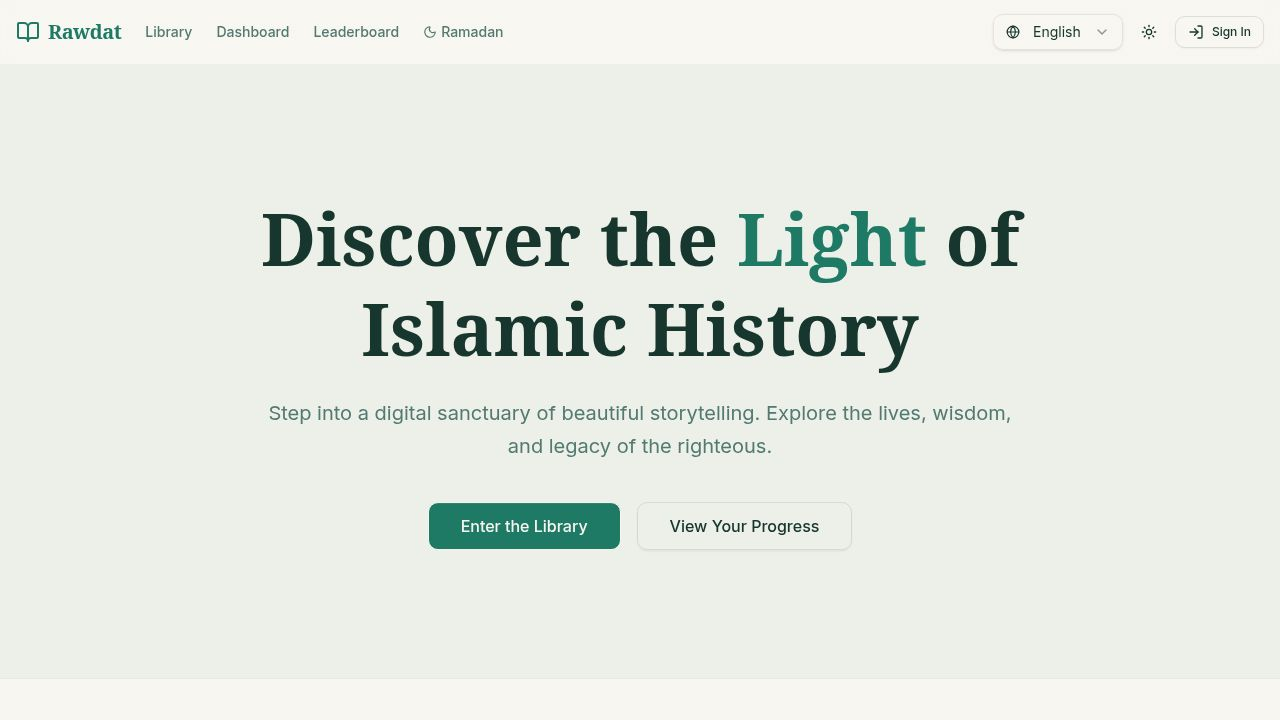
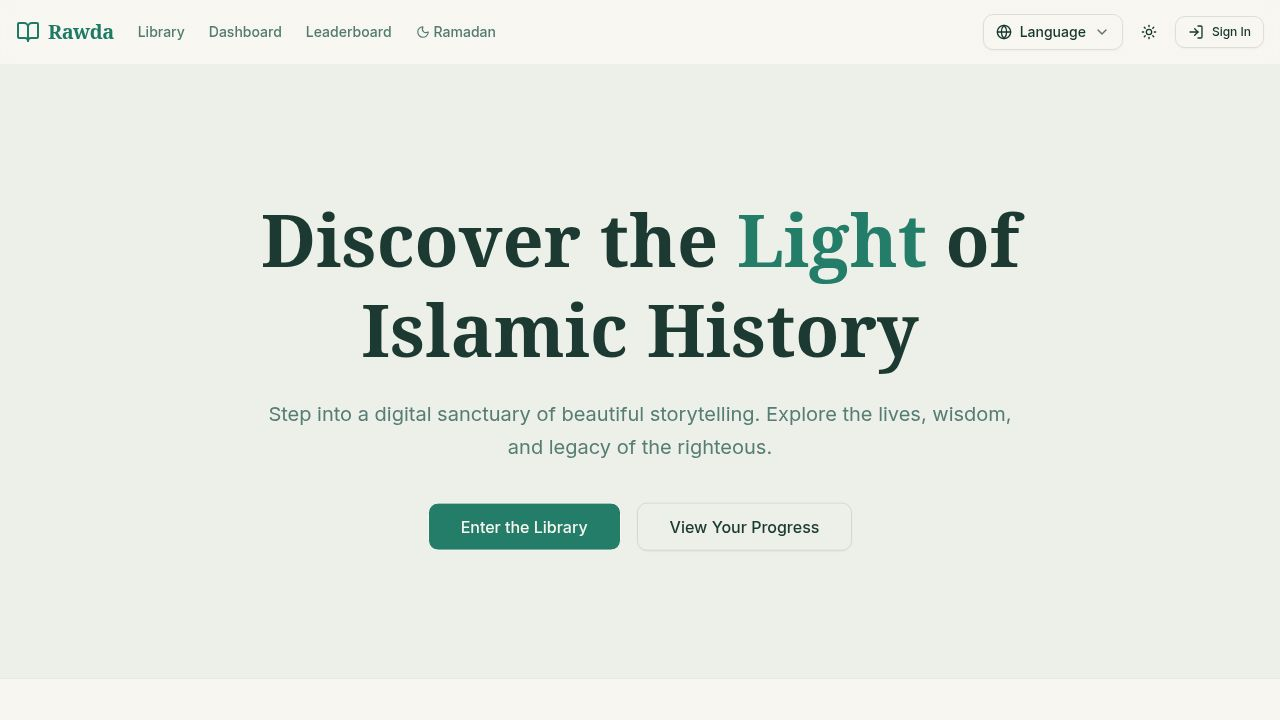
Remove language switcher from homepage
Remove LanguageSwitcher component from the home page, reducing UI clutter and consolidating language selection to header/mobile controls.

Replit-Commit-Author: Agent
Replit-Commit-Session-Id: f7828e0e-b56e-456a-a489-c1bb904790d7
Replit-Commit-Checkpoint-Type: full_checkpoint
Replit-Commit-Event-Id: 5f3179f7-aa8d-43a0-b6cb-06aa0e9ad846
Replit-Commit-Screenshot-Url: https://storage.googleapis.com/screenshot-production-us-central1/372dc912-69b1-4080-952f-936a5d279012/f7828e0e-b56e-456a-a489-c1bb904790d7/TWWtrq3
Replit-Helium-Checkpoint-Created: true

diff --git a/artifacts/crm-app/src/pages/home.tsx b/artifacts/crm-app/src/pages/home.tsx
@@ -13,7 +13,6 @@ import { BookOpen, ChevronRight, Clock, Moon, Star } from "lucide-react";
 import { Skeleton } from "@/components/ui/skeleton";
 import { usePageTitle } from "@/hooks/use-page-title";
 import { useLanguage } from "@/contexts/language-context";
-import { LanguageSwitcher } from "@/components/language-switcher";
 
 export default function Home() {
   usePageTitle(null);
@@ -38,9 +37,6 @@ export default function Home() {
             transition={{ duration: 0.8, ease: "easeOut" }}
             className="max-w-3xl mx-auto text-center"
           >
-            <div className="mb-8 flex justify-center">
-              <LanguageSwitcher />
-            </div>
             <h1 className="text-5xl lg:text-7xl font-serif font-bold text-foreground mb-6 leading-tight">
               {h.heroTitle1} <span className="text-primary">{h.heroHighlight}</span> {h.heroTitle2}
             </h1>
